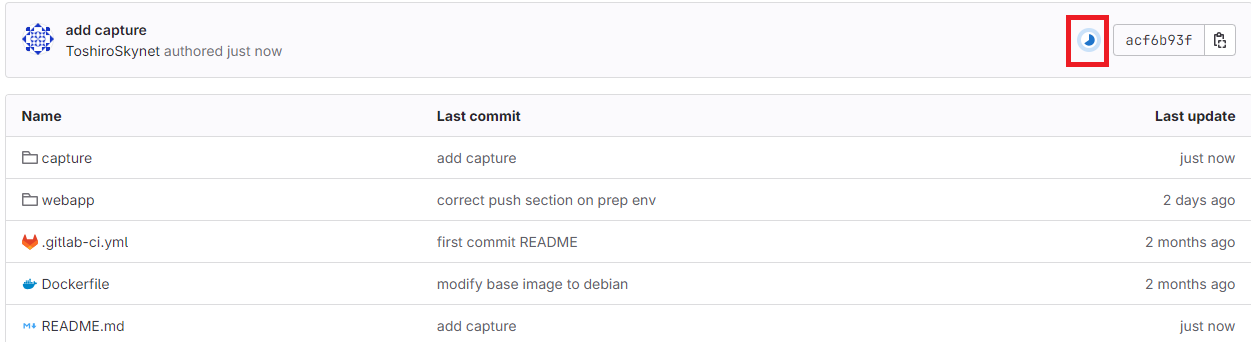
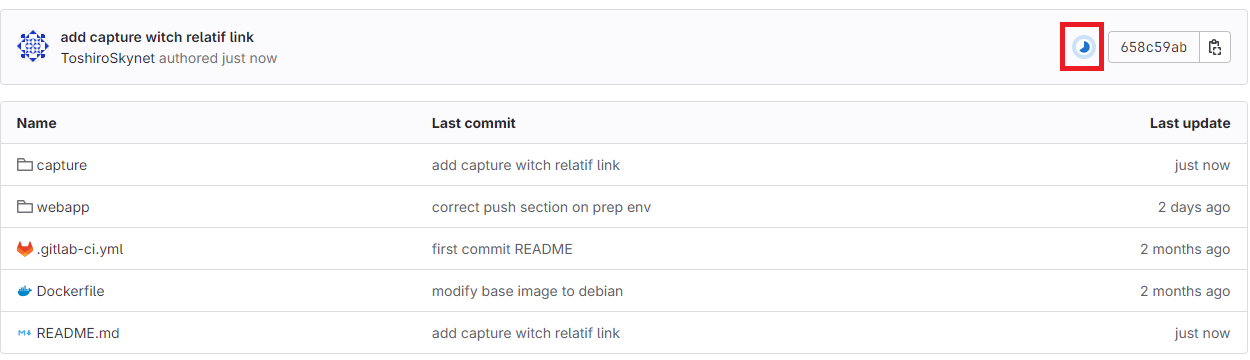
correct images link

diff --git a/README.md b/README.md
@@ -57,15 +57,15 @@ Nous allons utiliser les technologies ci-dessous:
 
 1. Pour commencer, nous allons créer un projet/repository sur Gitlab avec le +:
 
-![plus-for-create-project](..\capture\1-1-prep-env-plus.png)
+![plus-for-create-project](./capture/1-1-prep-env-plus.png)
 
 2. Nous allons maintenant être rediriger vers l'interface de création du nouveau projet. On aura plusieurs choix, mais étant donné que j'ai déjà téléchargé le code source sur mon ordinateur local depuis GitHub car j'ai voulu organiser mes fichiers, je vais créer un nouveau projet vièrge.
 
-![create-project](..\capture\1-2-prep-env-create-project.png)
+![create-project](.\capture\1-2-prep-env-create-project.png)
 
 3. Il faut maintenant spécifier le nom du projet et mettre le projet en public. Pour les autre options qui sont optionnelles, je vais les laisser comme tels et je clique sur `Create project`.
 
-![create-project-form](..\capture\1-3-prep-env-create-project-form.png)
+![create-project-form](../capture/1-3-prep-env-create-project-form.png)
 
 4. Une fois le projet créée, nous allons copier le lien du repo via le bouton en bleu `Code` et choisir la méthode `Clone with HTTPS` en cliquant sur l'icône presse papier à côté de l'URL.
 
@@ -92,9 +92,9 @@ Nous allons utiliser les technologies ci-dessous:
 
 ![pipeline-running](..\capture\2-1-phase-build-pipeline-running.png)
 
-2. On va aller dans la barre latérale gauche sur `Build` > `Pipeline`. C'est là que nous pourrions voir la liste de tous les pipelines d'un projet. Et on peut voir que le pipeline de build s'est lancé automatiquement après le push de notre code. Mais comme notre fichier `.gitlab-ci.yml`ne contient pour l'instant que la partie `build`, il n'y pour l'instant qu'un seul job sur la partie `Stages`
+2. Si on patiente un peu, cet icône va passer en vert pour nous indiquer que le pipeline s'est bien déroulé avec succès. Mais on peut aussi aller dans la barre latérale gauche dans `Build` > `Pipeline`. C'est là que nous pourrions voir la liste de tous les pipelines d'un projet. Et on peut voir également que le pipeline de build s'est lancé automatiquement après le push de notre code.  Mais comme notre fichier `.gitlab-ci.yml`ne contient pour l'instant que la partie `build`, il n'y a pour l'instant qu'un seul job sur la partie `Stages`. On peut cliquer sur le statut du job pour voir exactement la partie du stage qui est en cours d'execution qui est le `docker-build`.
 
-3. On peut cliquer sur le statu du job pour voir exactement la partie du stage qui est en cours d'execution qui est le `Build`
+![2-2-phase-build-pipeline-list-state.png](..\capture\2-2-phase-build-pipeline-list-state.png)
 
 4. On peut maintenant cliquer sur `docker-build`pour voir la console du job qui nous montre tous les étapes du build: Depuis la génération du container Dind jusqu'au status finale du Job qui est ici `succeeded`qui nous indique le job s'est terminé sans erreur.
 
